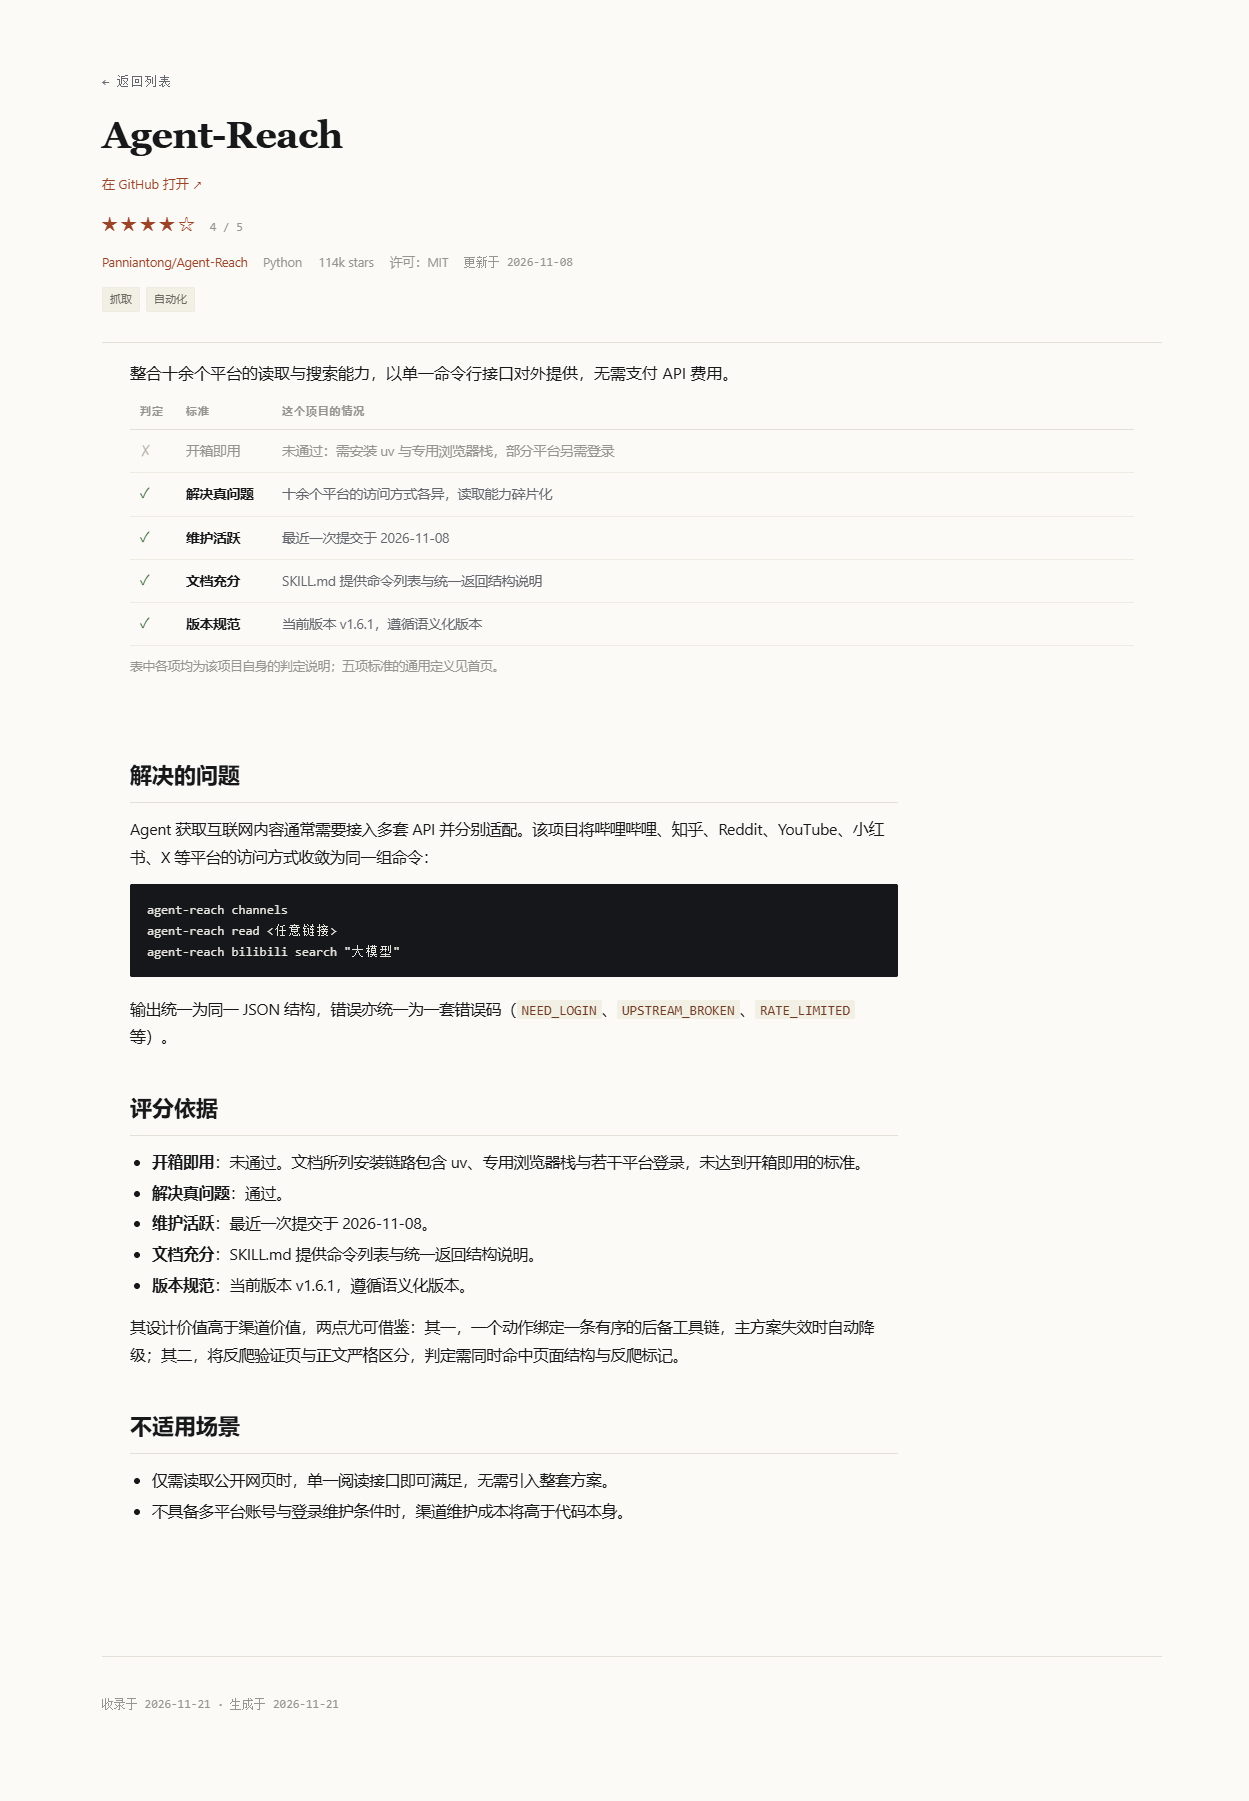
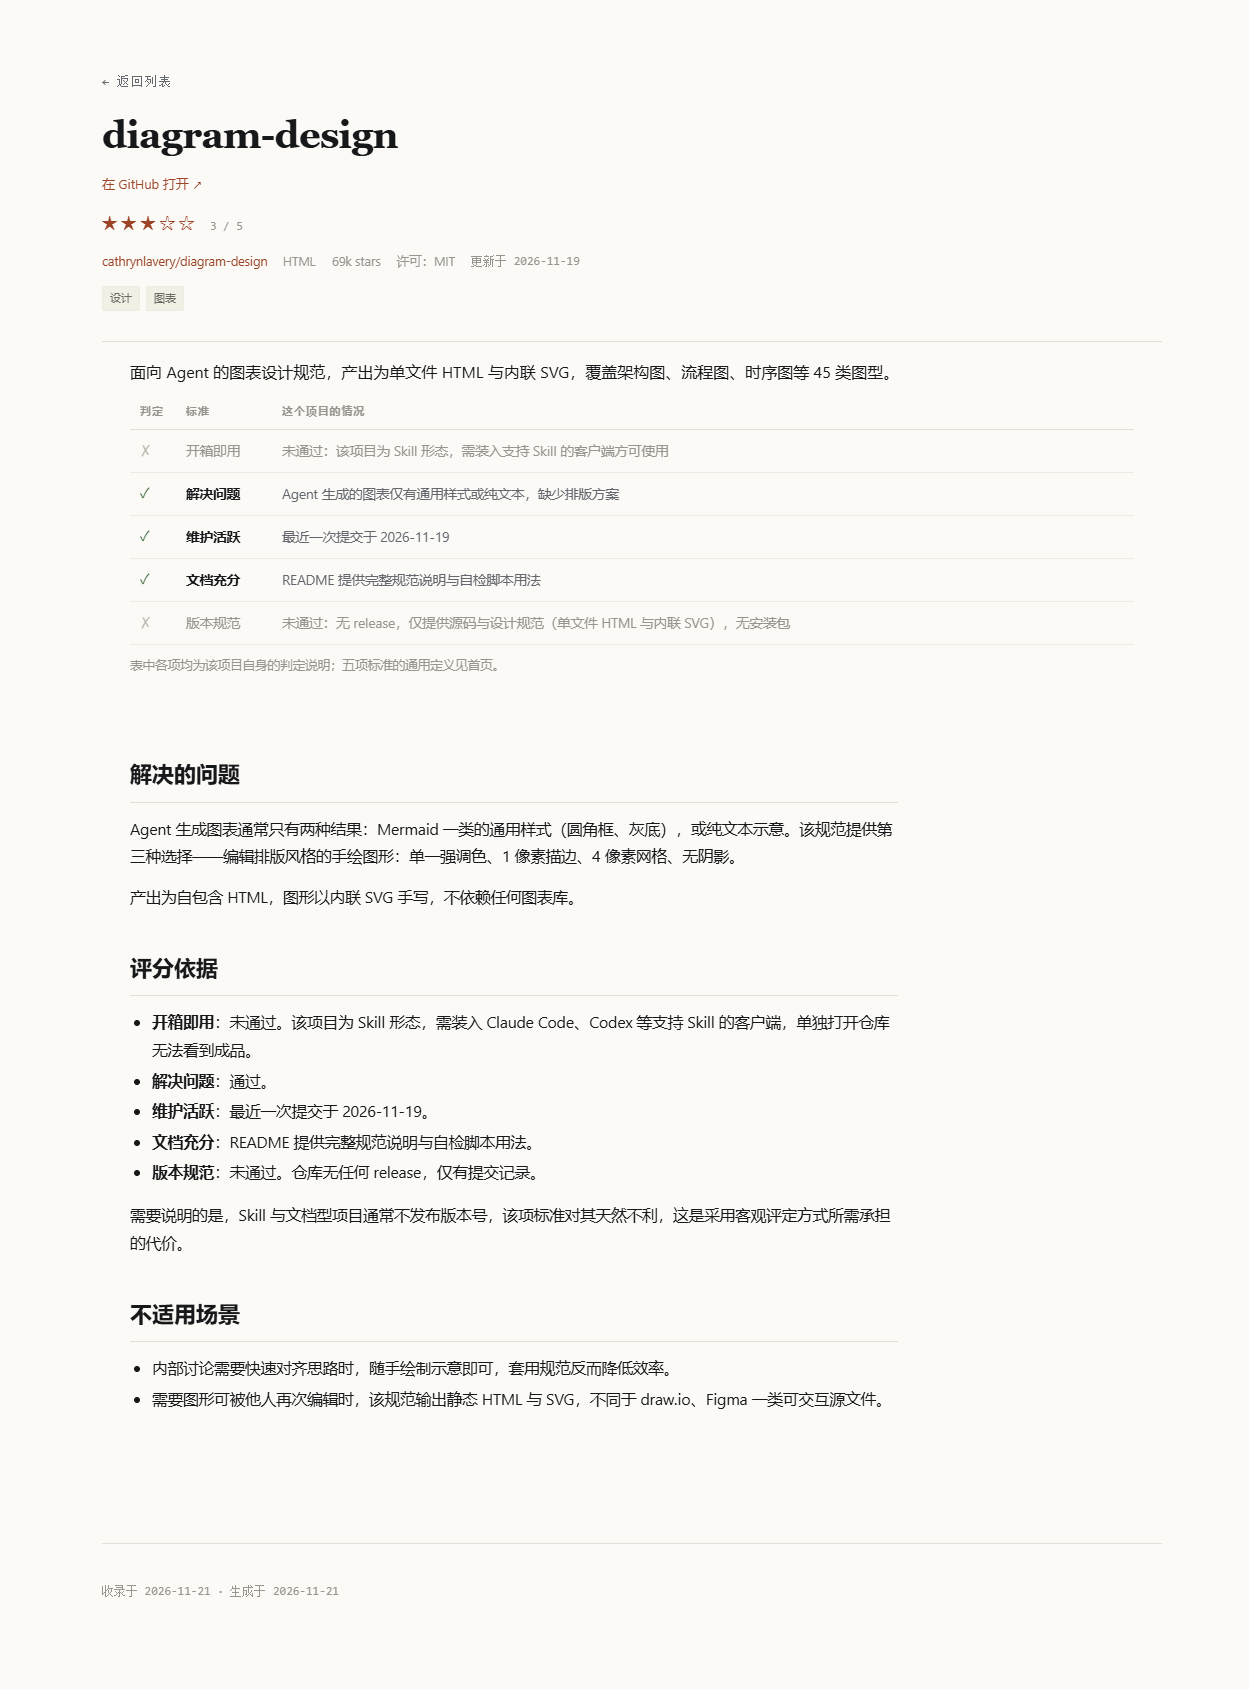
docs: 预览图更新至新版文案；diagram-design 正文与表格口径对齐

diff --git a/entries/diagram-design.md b/entries/diagram-design.md
@@ -27,7 +27,7 @@ Agent 生成图表通常只有两种结果：Mermaid 一类的通用样式（圆
 - **解决问题**：通过。
 - **维护活跃**：最近一次提交于 2026-11-19。
 - **文档充分**：README 提供完整规范说明与自检脚本用法。
-- **版本规范**：未通过。仓库无任何 release，仅有提交记录。
+- **版本规范**：未通过。仓库无 release，仅提供源码与设计规范。
 
 需要说明的是，Skill 与文档型项目通常不发布版本号，该项标准对其天然不利，这是采用客观评定方式所需承担的代价。
 
